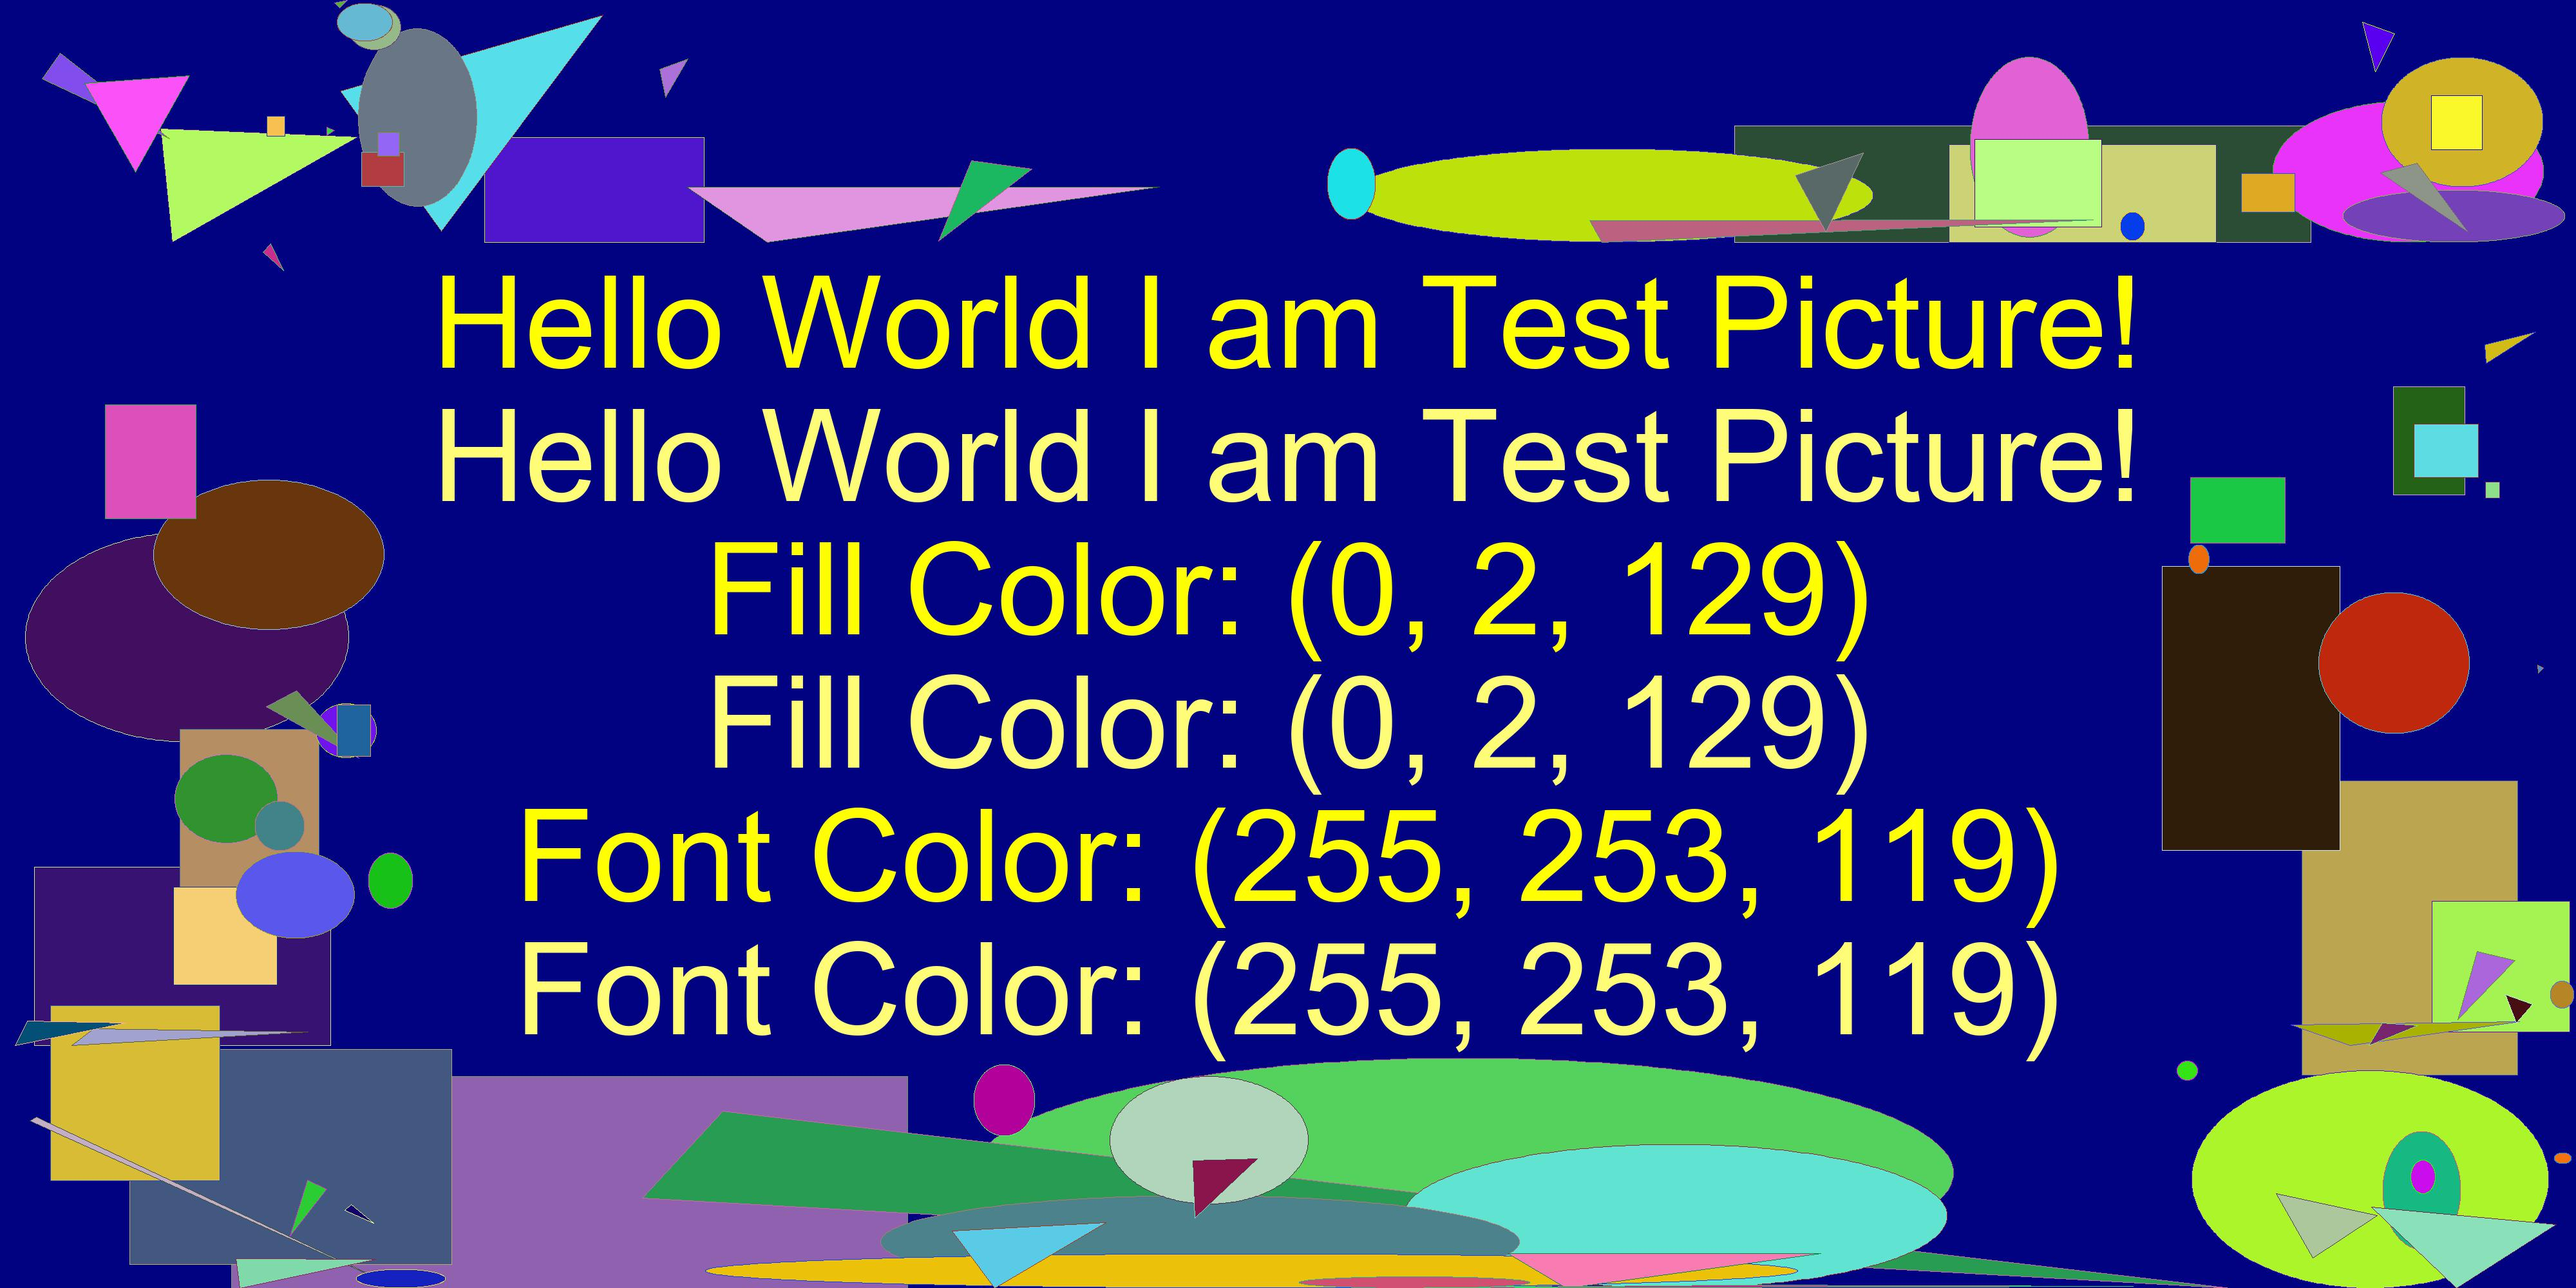
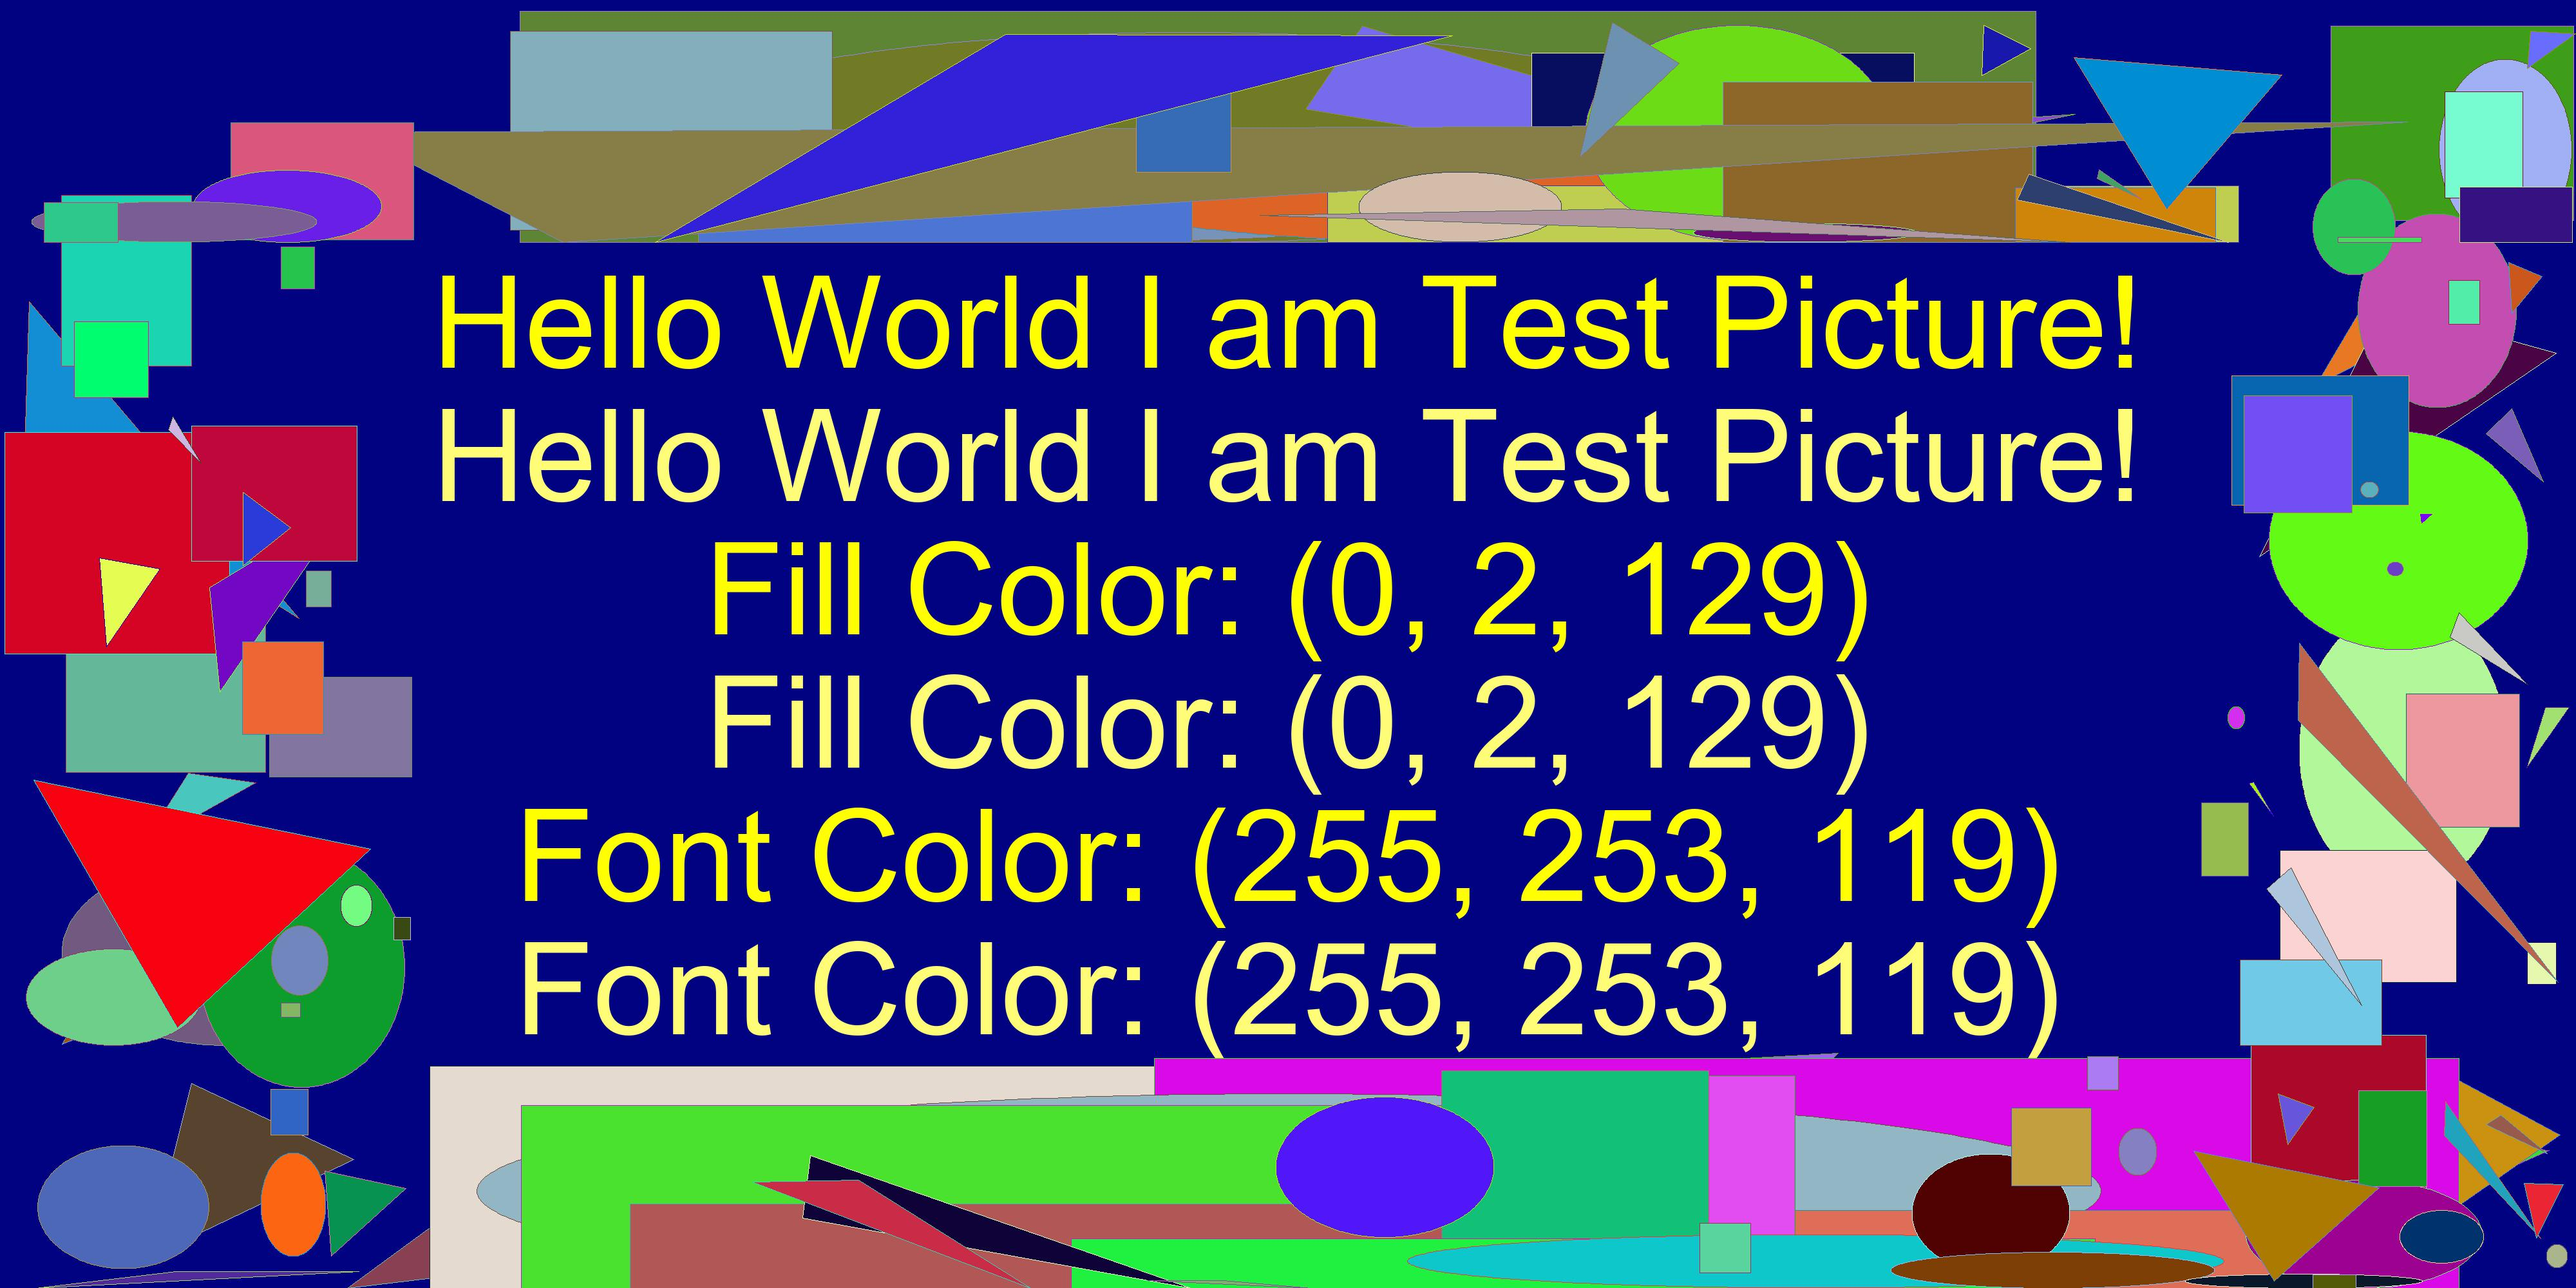
better precision better results

diff --git a/genpic.py b/genpic.py
@@ -4,7 +4,7 @@ from PIL import Image, ImageDraw, ImageFont
 from operator import mod
 from functools import reduce
 from random import randrange
-from math import sqrt
+from math import sqrt, pi
 from argparse import ArgumentParser
 
 defaultSize = (4000, 2000)
@@ -118,24 +118,28 @@ def genRect(borderRects):
 #    |             |
 # 3  +-------------+
 def prepTriangle(draw, colour, rect):
-    width = rect[2] - rect[0]
-    height = rect[3] - rect[1]
-    w2 = rect[0] + randrange(int(width / 2 + 0.5))
-    h2 = rect[1] + randrange(int(height / 2 + 0.5))
+    w = rect[2] - rect[0]
+    h = rect[3] - rect[1]
+    w2 = rect[0] + randrange(int(w / 2 + 0.5))
+    h2 = rect[1] + randrange(int(h / 2 + 0.5))
     switcher = (
-        lambda : ((w2, rect[1]), (rect[2], rect[3]), (rect[0], h2)),
-        lambda : ((rect[2], h2), (rect[0], rect[3]), (w2, rect[1])),
-        lambda : ((w2, rect[3]), (rect[0], rect[1]), (rect[2], h2)),
-        lambda : ((rect[0], h2), (rect[2], rect[1]), (w2, rect[3])),
+        lambda : (((w2, rect[1]), (rect[2], rect[3]), (rect[0], h2)),
+                 w * h - (w2 * h2 + (w - w2) * h + w * (h - h2)) / 2),
+        lambda : (((rect[2], h2), (rect[0], rect[3]), (w2, rect[1])),
+                 w * h - (w2 * h + (w - w2) * h2 + w * (h - h2)) / 2),
+        lambda : (((w2, rect[3]), (rect[0], rect[1]), (rect[2], h2)),
+                 w * h - (w * h2 + (w - w2) * (h - h2) + w2 * h) / 2),
+        lambda : (((rect[0], h2), (rect[2], rect[1]), (w2, rect[3])),
+                 w * h - (w * h2 + (w - w2) * h + w2 * (h - h2)) / 2),
     )
     triXY = switcher[randrange(len(switcher))]()
     #print(triXY)
-    return {'area' : 1/3 * width * height, 'draw' : lambda : draw.polygon(triXY, fill=colour['rgb'], outline=colour['inv'])}
+    return {'area' : triXY[1], 'draw' : lambda : draw.polygon(triXY[0], fill=colour['rgb'], outline=colour['inv'])}
 
 def prepEllipse(draw, colour, rect):
     width = rect[2] - rect[0]
     height = rect[3] - rect[1]
-    return {'area' : 3/4 * width * height, 'draw' : lambda : draw.ellipse(rect, fill=colour['rgb'], outline=colour['inv'])}
+    return {'area' : pi/4 * width * height, 'draw' : lambda : draw.ellipse(rect, fill=colour['rgb'], outline=colour['inv'])}
 
 def prepRectangle(draw, colour, rect):
     width = rect[2] - rect[0]
